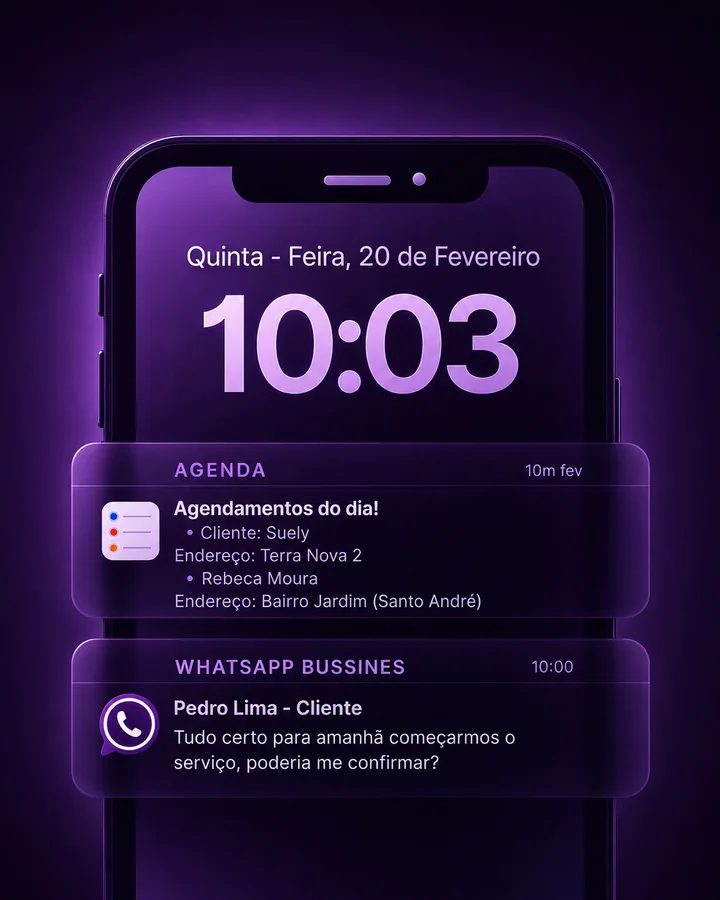
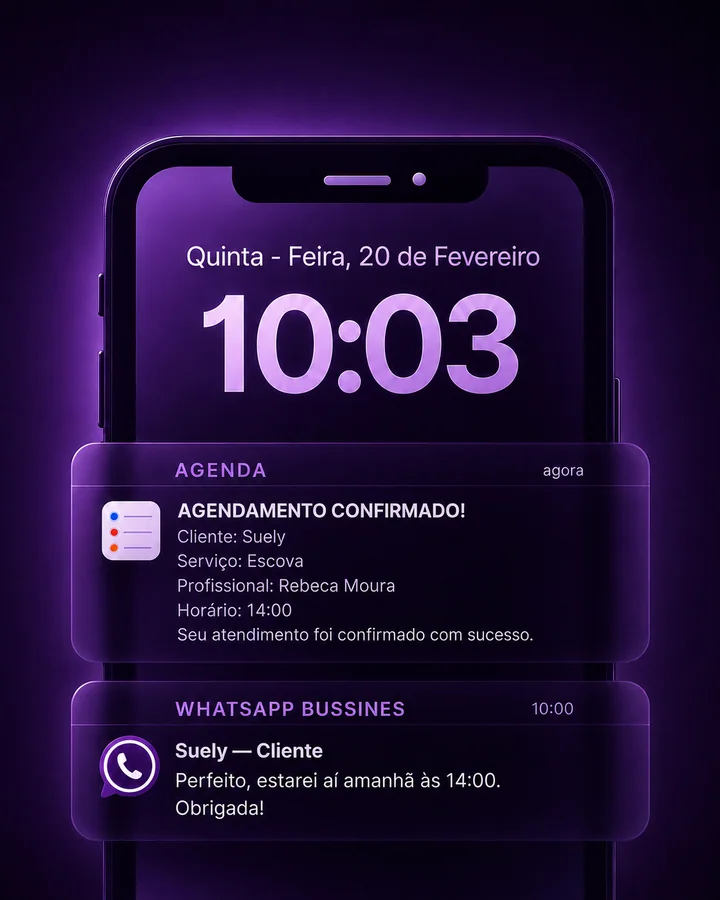
Substitui arte da abertura mobile (#42)

diff --git a/index.html b/index.html
@@ -357,7 +357,7 @@
 <div class="auth-overlay" id="authOverlay">
   <div class="auth-modal">
     <section class="auth-mobile-welcome" id="authMobileWelcome" aria-label="Boas-vindas">
-      <img class="auth-mobile-welcome-art" src="vyxora-mobile-welcome.webp?v=2" alt="Agenda e notificações organizadas no celular">
+      <img class="auth-mobile-welcome-art" src="vyxora-mobile-welcome.webp?v=3" alt="Agendamento confirmado e atendimento organizado no celular">
       <div class="auth-mobile-welcome-glow" aria-hidden="true"></div>
       <div class="auth-mobile-welcome-copy">
         <span class="auth-mobile-welcome-kicker">SEU ESPAÇO, DO SEU JEITO</span>
